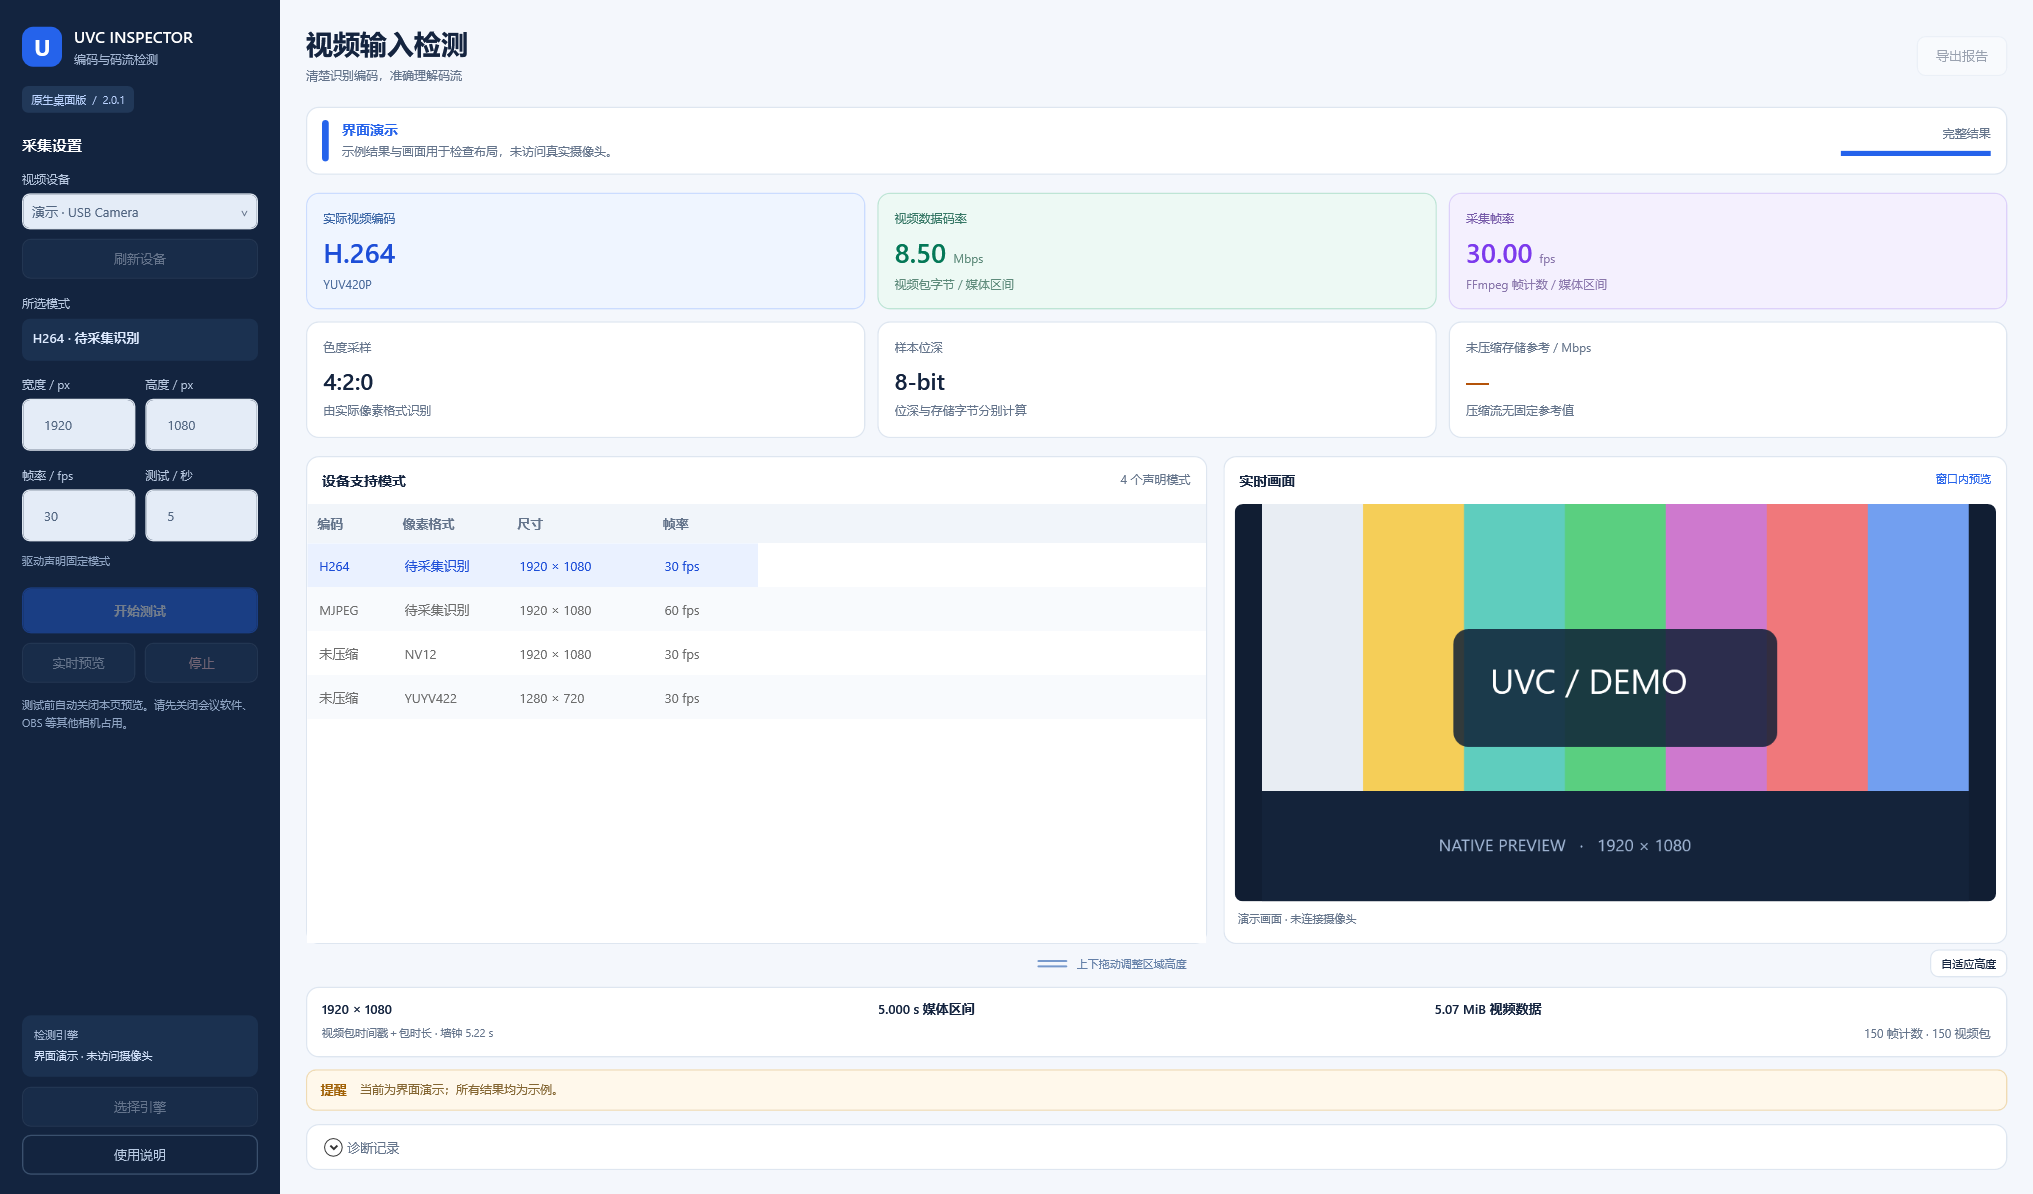
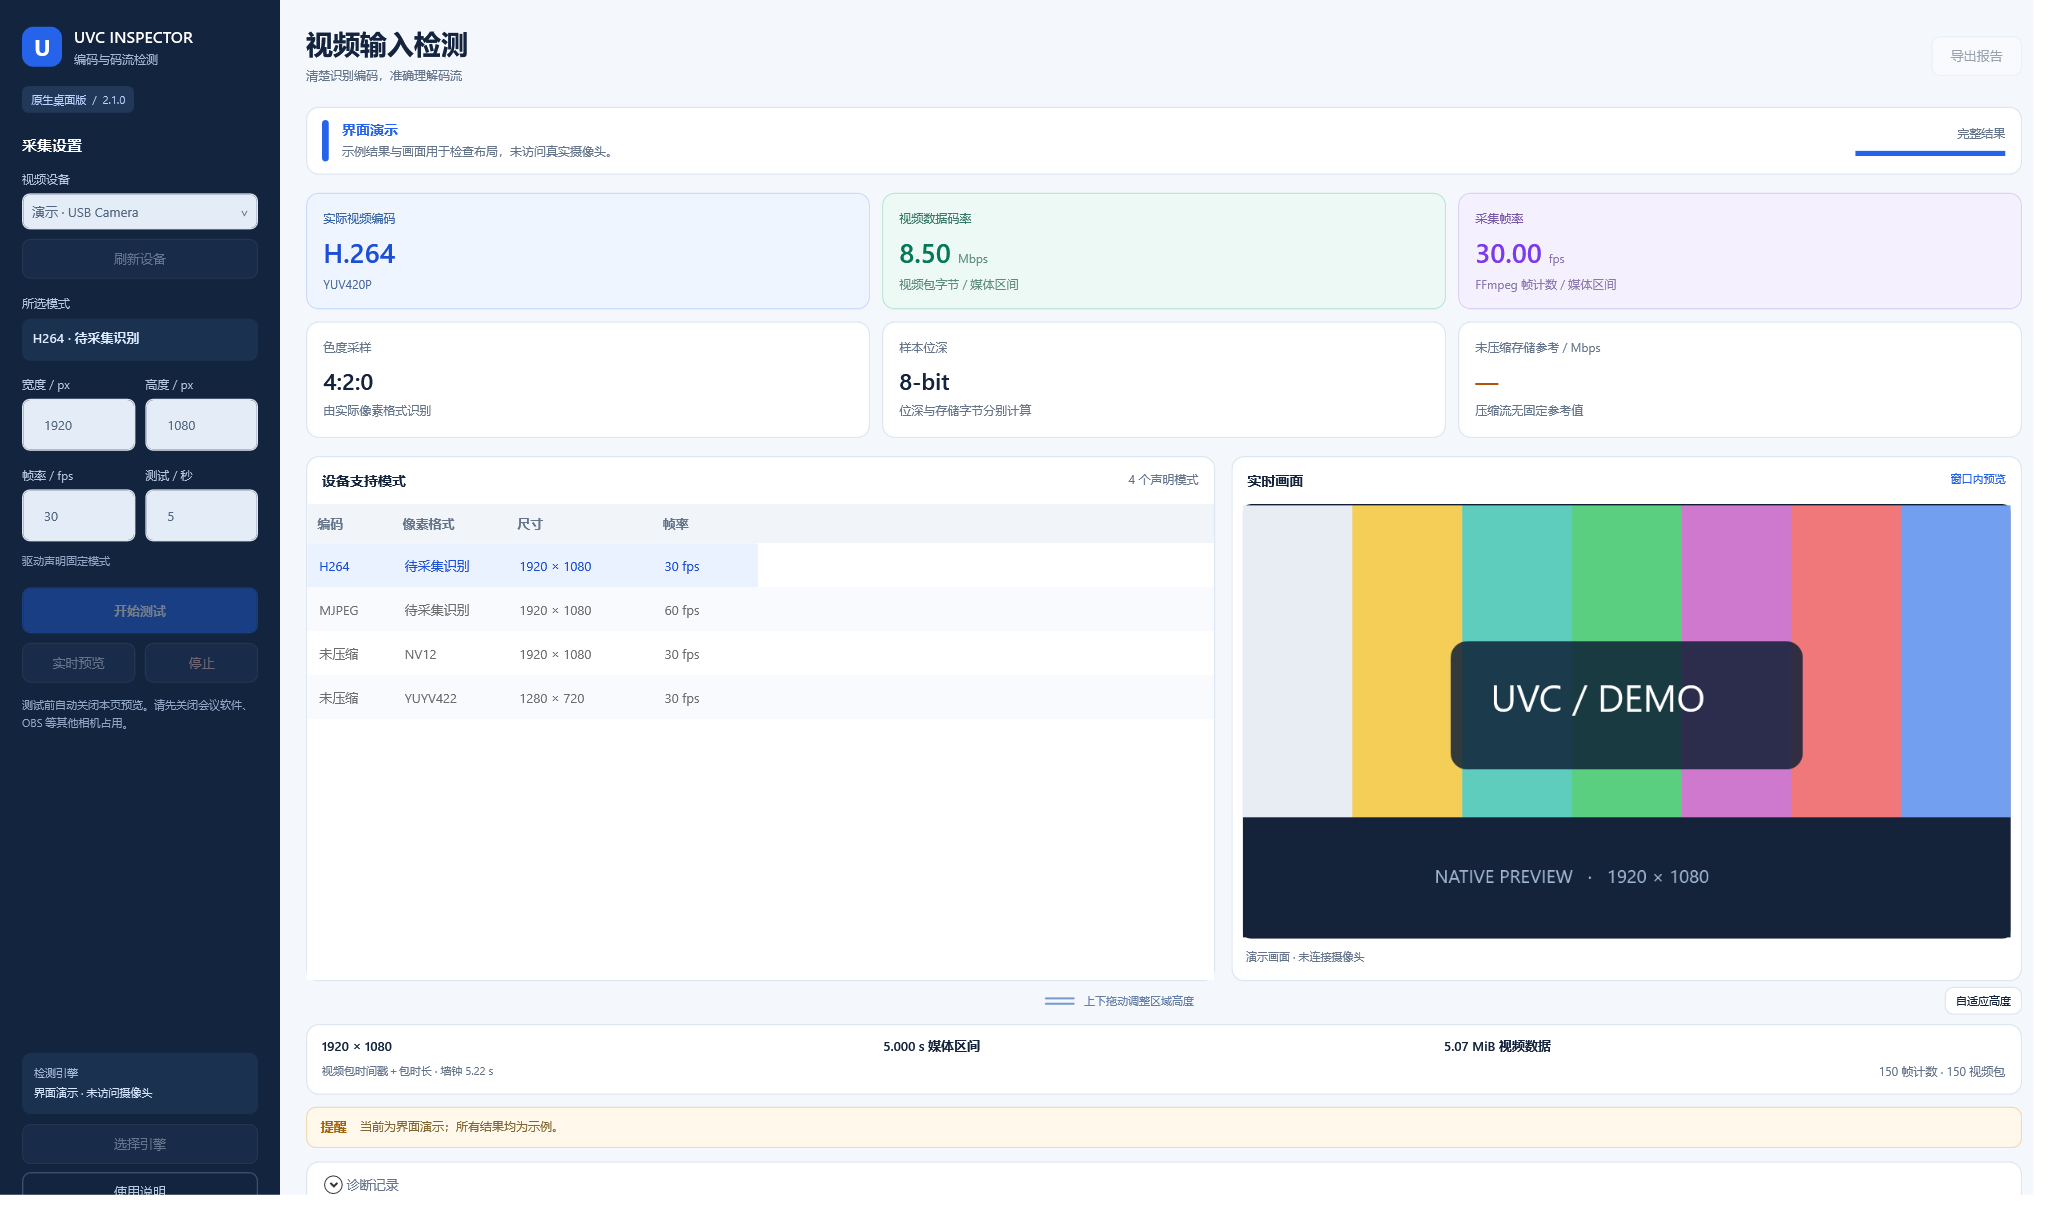
Complete bundled-engine packaging and distribution documentation

diff --git a/docs/DEVELOPMENT.md b/docs/DEVELOPMENT.md
@@ -38,7 +38,7 @@ build.ps1                  构建、验证和便携包脚本
 
 # 自包含发布程序的界面检查，不访问相机
 ./build.ps1 -Package
-./artifacts/UvcInspector-v2.0.1-win-x64/UvcInspector.exe --demo --capture ui.png --width 2048 --height 1232 --layout-check
+./artifacts/UvcInspector-v2.1.0-win-x64/UvcInspector.exe --demo --capture ui.png --width 2048 --height 1232 --layout-check
 ```
 
 测试项目是自带断言的控制台程序，使用 `dotnet run --project tests/UvcInspector.Tests -c Release` 执行；不要用 `dotnet test` 代替。失败会返回非零退出码。
@@ -51,16 +51,30 @@ build.ps1                  构建、验证和便携包脚本
 ./build.ps1 -Package
 ```
 
-生成自包含的 Windows x64 单文件程序、完整说明、MIT 与 .NET 通知，以及源码 ZIP。公开下载包不包含 FFmpeg，用户独立安装引擎。不要把 ZIP、EXE 或 SDK 提交到 Git 源码仓库。
+默认打包会把 `.tools/engine/ffmpeg.exe` 作为资源嵌入主 EXE，包含 .NET 运行时、完整说明和第三方材料。该引擎由 GitHub Actions 的 Ubuntu 交叉编译任务按 `scripts/build-engine.sh` 从校验过的 FFmpeg 8.1.3 原始源码生成；可从成功的 Actions 运行下载 `ffmpeg-windows` artifact 到 `.tools/engine`。
 
-本地确需复制既有 FFmpeg 时可使用 `-BundleEngine -EnginePath 'C:\path\ffmpeg.exe'`。该选项仅用于有对应第三方材料的本地包；不要将本机引擎包当作公开下载包。公开打包应在干净克隆中运行，避免旧的 `tools` 文件夹混入。
+显式指定已完成的项目构建：
 
-版本号当前为 2.0.1。更改版本时同步应用 csproj、界面版本、报告版本、build.ps1 包名与 README 下载文件名。
+```powershell
+./build.ps1 -Package -BundleEngine -EnginePath 'C:\engine\ffmpeg.exe' -EngineMaterialsPath 'C:\engine\licenses'
+```
+
+脚本要求对应源码/许可证、版本和 LGPL 配置完整，并在发布目录附上所有材料。不要把任意 Gyan full build 替代这个精简构建。单纯开发界面时可用 `-Package -WithoutEngine`，这类本地开发包需要外部引擎，不作为正式下载版。
+
+内置引擎检查不使用 PATH 或已安装 FFmpeg，也不访问相机：
+
+```powershell
+./artifacts/UvcInspector-v2.1.0-win-x64/UvcInspector.exe --engine-check artifacts/engine-check.json --fixtures .tools/engine/fixtures
+```
+
+检查并发提取、隔离缓存损坏修复、DirectShow 能力、四种合成视频的复制测量/JPEG 解码和进程取消。测试缓存位于报告旁的 `engine-check-cache`，不修改用户实际引擎缓存；报告 Healthy 为 true、退出码为 0 表示通过。
+
+版本号当前为 2.1.0。更改版本时同步应用 csproj、界面版本、报告版本、build.ps1 包名与 README 下载文件名。
 
 ## GitHub Actions
 
-推送 main、Pull Request 或手动触发时，在 Windows runner 上安装 .NET 10，执行核心检查和自包含打包，并检查默认、空设备、错误及大窗口布局。官方 Actions 固定到提交 SHA；任务只授予读取源码权限。
+推送 main、Pull Request 或手动触发时，先在 Ubuntu 上交叉编译内置引擎，再在 Windows runner 上安装 .NET 10，执行核心检查、内置引擎检查和自包含打包，并检查默认、空设备、错误及大窗口布局。官方 Actions 固定到提交 SHA；任务只授予读取源码权限。
 
-成功后，Actions 页面可下载不含 FFmpeg 的构建结果和界面检查记录。工作流不会自行发布 Release，也不会打开真实相机。发布时使用验证过的构建包，并同时附源码和依赖说明。
+成功后，Actions 页面可下载包含内置 FFmpeg 和对应源码材料的构建结果和界面检查记录。工作流不会自行发布 Release，也不会打开真实相机。发布时使用验证过的构建包，并同时附源码和依赖说明。
 
 截图模式显式分配请求尺寸的 WPF 画布，布局检查改变该画布的视口高度。这样即使 runner 的虚拟屏幕较小，也能检查大尺寸布局与真实控件事件；普通运行仍由实际窗口尺寸决定空间分配。

diff --git a/THIRD-PARTY-NOTICES.md b/THIRD-PARTY-NOTICES.md
@@ -7,15 +7,21 @@ Windows x64 便携包以自包含方式发布，包含 Microsoft .NET 与 Window
 - [Runtime 源码与许可证](https://github.com/dotnet/runtime)
 - [WPF 源码与许可证](https://github.com/dotnet/wpf)
 
-## FFmpeg
+## 内置 FFmpeg 8.1.3
 
-FFmpeg 为独立子进程，不作为库链接进入应用。普通源码工程不包含 FFmpeg；带 `tools/ffmpeg.exe` 的本地便携包包含未修改的已安装 Gyan.dev 8.1.1 full build，其配置启用 GPL 和 version3。发行包保存原构建 LICENSE、README、版本/配置、SHA-256，并在可用时附上对应 FFmpeg 8.1.1 源码归档。
+2.1.0 的 Windows EXE 内嵌项目从 FFmpeg 8.1.3 原始源码构建的 Windows x64 独立命令行程序。运行时解出引擎并通过管道调用；不修改 FFmpeg 源码、不静态链接 FFmpeg 库到 C# 工程。
 
-- [FFmpeg 许可说明](https://ffmpeg.org/legal.html)
-- [FFmpeg 8.1.1 源码](https://ffmpeg.org/releases/ffmpeg-8.1.1.tar.xz)
-- [所用发行构建及外部库说明](https://www.gyan.dev/ffmpeg/builds/)
-- [发行方使用的外部库构建工程](https://github.com/m-ab-s/media-autobuild_suite)
+构建未启用 GPL、nonfree 或额外编解码库，适用 LGPL-2.1-or-later。包含 DirectShow、RAW/MJPEG/H.264/HEVC 解码、原视频包复制、缩放和 MJPEG 预览；不含 libx264/libx265 编码器或网络协议。应用自身源码仍按 MIT 发布。
 
-FFmpeg 的附加编解码库各自有许可与源码要求。以上材料记录当前本地包依赖，不代表已完成公开分发全部依赖的许可审核；将引擎一并公开发布前需按实际构建整理完整的第三方材料，或者让用户使用已有的合规安装。
+发行包 `licenses/ffmpeg` 提供：
 
-这些许可不替代本项目源代码的许可决定。
+- 官方 `ffmpeg-8.1.3.tar.xz` 原始源码归档及 LGPL/FFmpeg 许可文件。
+- `build-engine.sh`、实际 configure 命令、交叉编译器与 Debian 包版本记录。
+- MinGW 和 GCC 原始版权信息，以及 PE 导入依赖记录。
+- 内置可执行文件的 SHA-256、版本输出和实际许可输出。
+
[1 lines of base64/hex data omitted]
+
+官方资料：[FFmpeg 源码](https://ffmpeg.org/releases/ffmpeg-8.1.3.tar.xz)、[FFmpeg 许可说明](https://ffmpeg.org/legal.html)、[MinGW-w64](https://www.mingw-w64.org/)、[GCC Runtime Library Exception](https://www.gnu.org/licenses/gcc-exception-3.1.html)。
+
+用户明确指定的外部 FFmpeg 可能有不同配置与许可证，该文件不对外部安装授予许可。2.0.1 的公开发行包未包含 FFmpeg。

diff --git a/VERIFICATION.md b/VERIFICATION.md
@@ -1,6 +1,6 @@
 # 正确性与界面验证
 
-验证日期：2026-10-04。本机 Windows x64、.NET 10、FFmpeg 8.1.1 full build。
+验证日期：2026-10-04～2026-10-05。本机 Windows x64、.NET 10；早期检查使用 FFmpeg 8.1.1 full build，2.1.0 内置引擎检查使用项目 FFmpeg 8.1.3 精简构建。
 
 ## 检查结果与边界
 
@@ -20,10 +20,15 @@
 | 2.0.1 可调高度 | 实际 WPF 拖动事件使列表与预览同步增高；窗口增高时自动扩展；手动高度不随窗口改变；最小/最大高度和恢复自适应均通过；大窗口和最小窗口截图无绑定错误 |
 | 发布版 UI 行为 | 明确启用本机烟雾检查时，原生预览显示实际 JPEG、开始测试先释放预览、NV12 测试完成、修改参数清空旧结果 |
 | 打包 | Windows x64 自包含构建，主 EXE 包含 .NET；可选 `tools/ffmpeg.exe`，不含浏览器/网页服务 |
+| 2.1.0 内置引擎 | 主 EXE 资源提取、三次并发提取复用缓存、损坏缓存自动修复、DirectShow 能力均通过；测试不依赖外部安装 |
+| 内置引擎实际处理 | RAW/MJPEG/H.264/HEVC 合成视频的原包复制、编码/时长/帧率、RAW 精确字节，以及四种输入解码/缩放成真实 JPEG 图像均通过；实际进程取消通过 |
+| 内置引擎本机 UI | 清空子进程 PATH 后使用内置 8.1.3，FHD Camera NV12 640×360、30 fps、2 秒测试成功；原生预览、预览先释放、参数变更清空旧结果均通过，绑定错误为空 |
 
 源码测试覆盖 45 项核心检查；完整 FFmpeg 集成合计 70 项。本机硬件扩展合计 76 项，使用 FHD Camera 的 YUYV / NV12 模式及短时预览。最终日志、实际样本统计和窗口截图在 `artifacts` 下；它们不作为源码提交。
 
 2.0.1 只修改窗口布局与高度设置，重新验证构建和 WPF 布局，不重复打开摄像头。上述采集/硬件验证来自 2.0.0，其检测核心保持原实现。布局检查记录为 `ui-adjustable-large.png.layout.json`。
+
+2.1.0 重新执行 45 项核心检查，使用内置引擎执行独立的合成视频与缓存检查，以及本机原生预览/采集检查。报告在 `artifacts/verification/embedded-engine-check.json` 和 `embedded-native-ui.json`。本机 NV12 观测约 30 fps、82.94 Mbps。压缩编码检查仍采用合成视频，没有声称本机相机支持压缩输出。
 
 本机相机只声明 YUYV 和 NV12，**没有用真实相机验证 MJPEG/H.264/HEVC 输出能力**。这些编码验证使用生成视频。NVIDIA Broadcast 仅完成枚举与模式读取，没有将其虚拟输出当作真实 UVC 硬件验证。
 

diff --git a/LICENSE-STATUS.md b/LICENSE-STATUS.md
@@ -4,4 +4,4 @@
 
 MIT 授权适用于本仓库的原生 C# / WPF 工程及项目文档，不是对旧 EXE 的许可证声明。本仓库不分发旧 EXE、提取的旧程序内容或真实相机数据。
 
-第三方运行时与检测引擎的许可证独立适用，说明及打包通知见 [THIRD-PARTY-NOTICES.md](THIRD-PARTY-NOTICES.md) 和发行包 `licenses`。公开的 Windows 下载包包含 .NET 运行时，不包含 FFmpeg；FFmpeg 由用户独立安装。
+第三方运行时与检测引擎的许可证独立适用，说明及打包通知见 [THIRD-PARTY-NOTICES.md](THIRD-PARTY-NOTICES.md) 和发行包 `licenses`。2.1.0 起公开包内置 FFmpeg 8.1.3 的 LGPL-2.1-or-later 精简构建，并提供对应源码、版权材料和可重复执行的构建脚本；项目 MIT 授权不替代这些第三方许可。

diff --git a/docs/TROUBLESHOOTING.md b/docs/TROUBLESHOOTING.md
@@ -2,7 +2,7 @@
 
 ## 找不到检测引擎
 
-点击“选择引擎”指定 `ffmpeg.exe`，或把已有 FFmpeg 的 bin 目录加入 PATH 后重新打开程序。公开下载包不包含 FFmpeg。程序会检查引擎可运行且包含 DirectShow；只有图标或界面启动成功不代表采集引擎已经可用。
+2.1.0 的公开下载包已经内置 FFmpeg。确认运行的是新版 EXE；如果内置资源校验失败，请重新下载发行包。缓存位于 `%LOCALAPPDATA%\UvcInspector\engines`，程序会自动修复损坏缓存。使用外部引擎时，点击“选择引擎”指定 `ffmpeg.exe`；该引擎必须可运行且包含 DirectShow。
 
 ## 找不到摄像头
 

diff --git a/docs/ARCHITECTURE.md b/docs/ARCHITECTURE.md
@@ -20,6 +20,8 @@ WPF 工程：
 - `Settings.cs`：当前用户设置，临时文件写入后替换。
 - `MainWindow.xaml.cs`：生命周期及不访问设备的演示渲染检查。
 - `MainWindow.Layout.cs`：可用空间分配、拖动/键盘调整、保存高度及实际布局检查。
+- `BundledEngine.cs`：读取 EXE 中的引擎资源，按 SHA-256 管理每用户缓存；进程间文件锁与临时文件替换防止并发半成品，启动前校验并修复缓存。
+- `EngineChecks.cs`：隔离的测试缓存、并发提取、损坏修复、四种格式的实测统计/JPEG 解码与取消；不访问摄像头。
 
 ## 测量
 

diff --git a/CHANGELOG.md b/CHANGELOG.md
@@ -1,3 +1,10 @@
+# 2.1.0 · 2026-10-05
+
+- 将项目精简构建的 FFmpeg 8.1.3 直接嵌入主 EXE；首次使用自动准备，默认无需外部安装或联网。
+- 内置引擎按 SHA-256 缓存并校验，支持损坏修复、并发启动与明确选择外部引擎。
+- 附上内置引擎对应源码、LGPL 许可证、MinGW/GCC 版权信息与构建方法。
+- 增加引擎提取、并发/修复、RAW/MJPEG/H.264/HEVC 测量与 JPEG 解码及取消检查。
+
 # 项目公开发布 · 2026-10-05
 
 - 采用 MIT 许可证，发布独立原生桌面版源码。
